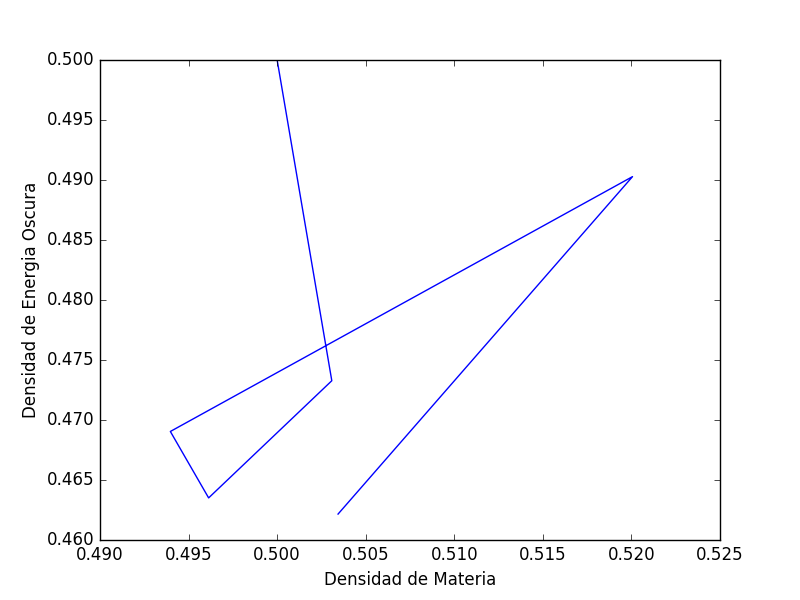
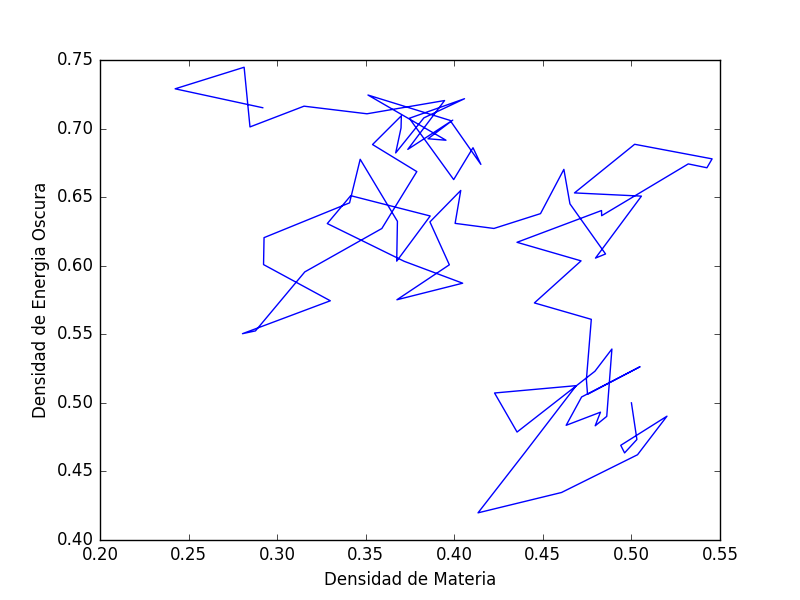
detalles
codigo para iteracion con 1000 pasos

diff --git a/montecarloprimerintento.py b/montecarloprimerintento.py
@@ -238,10 +238,8 @@ def paso_metropolis(p0, prior_params, datos, error=1, d=0.05, modelo=0):
         posterior_pp = prior([xp, yp, up, vp], prior_params) * likelihood([xp, yp, up, vp], datos, error)
         P = posterior_pp / posterior_p0
         R = np.random.uniform(0, 1)
-        print("cuociente probabilidades: "+str(P/R))
         if P > R:
             p0 = [xp, yp, up, vp]
-            print "se acepta"
     print("parametros: "+str(p0))
     return p0
 
@@ -270,12 +268,12 @@ def monte_carlo(p0, prior_params, N, datos, error=1, d=0.05, modelo=0):
     ax1 = fig.add_subplot(111)
     #ax1.xlim(-0.2, 1.2)
     #ax1.ylim(-0.2, 1.2)
-    ax1.plot(muestra_met[:,0], muestra_met[:,1])
+    ax1.plot(muestra_met[:,0], muestra_met[:,1], '.')
     #ax1.plot(muestra_met[:,0], muestra_met[:,1], marker='None', ls='-', lw=0.3, color='w')
     ax1.set_xlabel("Densidad de Materia")
     ax1.set_ylabel("Densidad de Energia Oscura")
     plt.legend(loc=4)
-    plt.savefig("prueba.png")
+    plt.savefig("mcmc.png")
     plt.draw()
     plt.show()
     '''
@@ -297,6 +295,6 @@ datos = z, mu - mu_0
 beta_grid1 = np.mgrid[0.:1.:50j, 0.:1.:50j]
 d_m_grid, d_de_grid = beta_grid1
 adivinanza1 = [0.2, 0.3, 0.8, 0.5]
-N = 100
+N = 1000
 p0 = 0.5, 0.5
 resultados = monte_carlo(p0, adivinanza1, N, datos)
